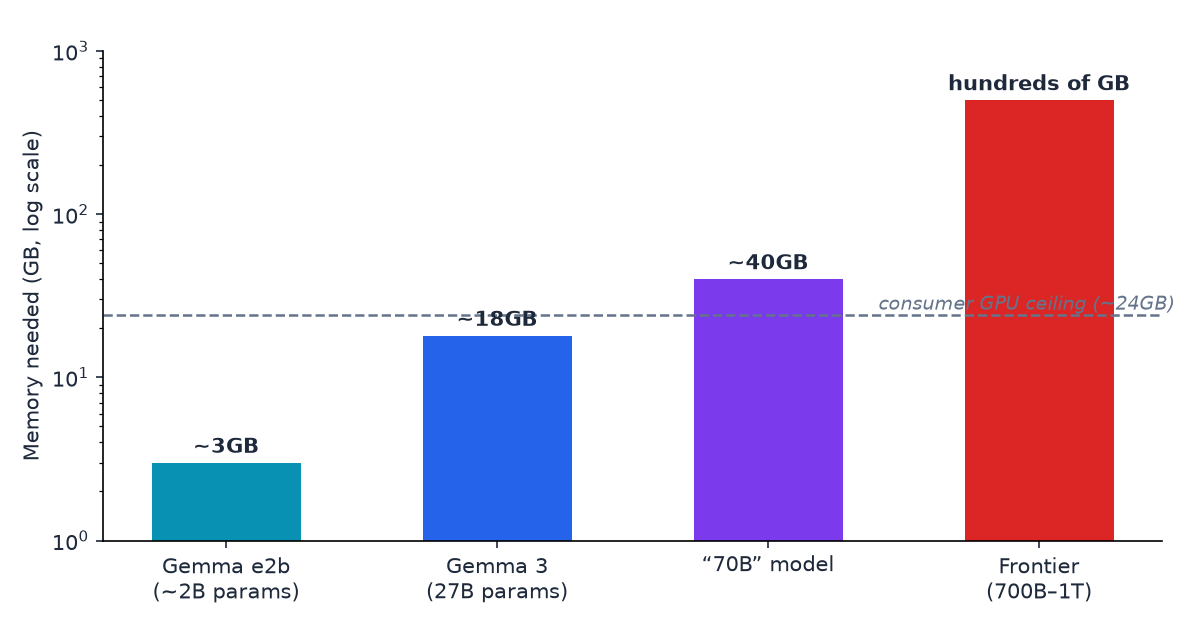
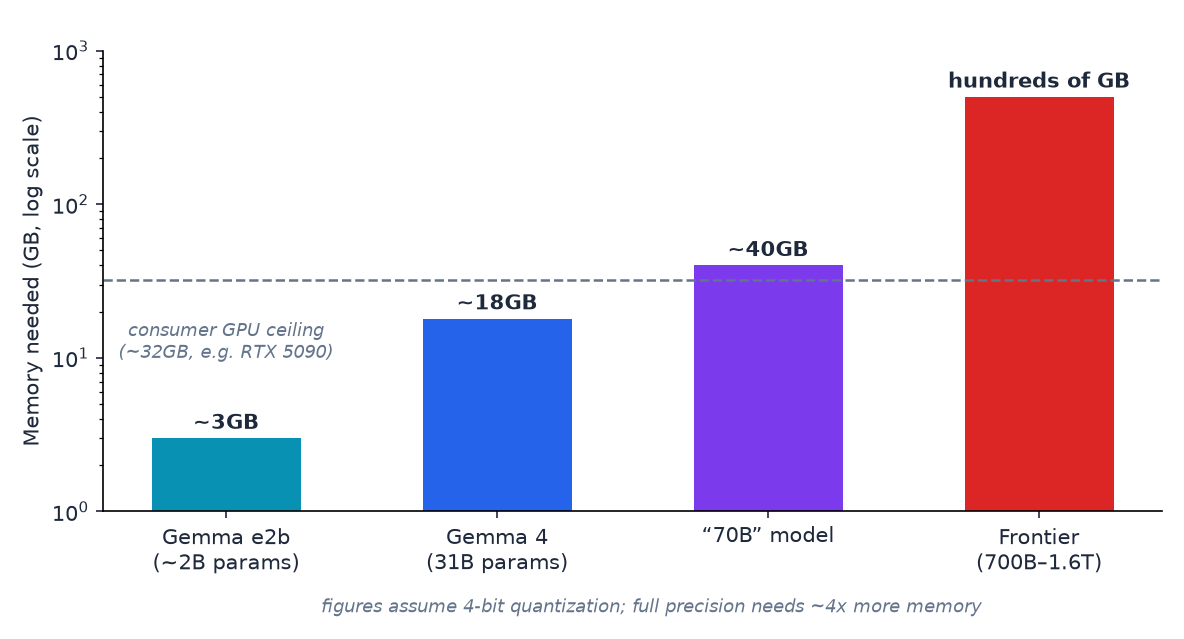
updates

Changed region(s): [[0.0, 0.0908, 0.9688, 0.9682], [0.0312, 0.0605, 0.0938, 0.1513]]

diff --git a/docs/slides/13-hardware-contrast.md b/docs/slides/13-hardware-contrast.md
@@ -1,9 +1,10 @@
 # Why Bigger Models Need Bigger Hardware
 
-![Placeholder: bar chart comparing memory needed — Gemma e2b (~3GB) vs Gemma 31B (~17-18GB) vs 70B model (~40GB) vs frontier 700B-1T model (hundreds of GB)](images/13-hardware-memory-chart.png)
+![Placeholder: bar chart comparing memory needed — Gemma e2b (~3GB) vs Gemma 4 31B (~17-18GB) vs 70B model (~40GB) vs frontier 700B-1.6T model (hundreds of GB)](images/13-hardware-memory-chart.png)
 
 - **Parameters** are roughly the number of knobs a model tuned during training.
-- Gemma e2b: ~3GB · Gemma 31B: ~17–18GB · 70B model: ~40GB · Largest 2026 open models (700B–1T): hundreds of GB across enterprise GPUs
+- Gemma e2b: ~3GB · Gemma 4 (31B): ~17–18GB · 70B model: ~40GB · Largest 2026 open models (700B–1.6T): hundreds of GB across enterprise GPUs
+- Figures assume 4-bit quantization; a full-precision 70B model would need closer to 140GB. Consumer GPU ceiling is now ~32GB (e.g. RTX 5090), up from the 24GB ceiling of the prior generation.
 - **The "aha":** frontier models aren't secret code — they're often just too large to fit on a personal computer, so companies run them in data centers.
 
 ---

diff --git a/README.md b/README.md
@@ -2,6 +2,8 @@
 
 A 30-minute talk for a general audience explaining AI, machine learning, and LLMs from the ground up — no technical background assumed. Ends with a live demo of running an open-source model locally.
 
+_Last updated: 2026-07-01_
+
 ## Contents
 
 - [`docs/lesson_outline.md`](docs/lesson_outline.md) — full speaker script with timing, talking points, an optional deep-dive analogy, a live-demo walkthrough, and an FAQ of key terms (neural network, vector, parameter, agent, and more).

diff --git a/docs/lesson_outline.md b/docs/lesson_outline.md
@@ -107,7 +107,7 @@ Keep this factual and even-handed — no endorsements, just an overview of categ
 **The contrast — why bigger models need bigger hardware:**
 - A model's "parameters" are roughly the number of knobs it learned to tune during training. More parameters generally means more capability, but also means the model takes up more memory.
 - Even staying within just the Gemma family, the difference is stark: the small edge model we just ran needs about 3GB of memory, while Google's own flagship Gemma model (31 billion parameters) needs around 17-18GB — and that's still Google intentionally keeping a version small enough for a high-end consumer GPU.
-- Go outside the Gemma family to the true frontier, and the numbers jump again: as a rough rule of thumb, a 70-billion-parameter model needs around 40GB of memory to run well — more than any consumer graphics card has on its own (high-end consumer GPUs typically top out around 24GB).
+- Go outside the Gemma family to the true frontier, and the numbers jump again: as a rough rule of thumb, a 70-billion-parameter model needs around 40GB of memory to run well (that figure assumes a compressed/"quantized" version — see the aside below; a full-precision 70B model would need closer to 140GB) — more than any consumer graphics card has on its own (high-end consumer GPUs typically top out around 32GB, e.g. the RTX 5090).
 - The very largest open models being released in 2026 — like Kimi K2.6 or DeepSeek's largest models — have around 700 billion to 1 trillion parameters. Running those requires hundreds of gigabytes of memory spread across multiple enterprise-grade GPUs, hardware that costs tens of thousands of dollars and lives in data centers, not living rooms.
 - **This is the "aha": it's not that ChatGPT, Claude, or Gemini's best models are secretly special code — often they're just too large to fit on a personal computer, so the company runs them in a data center and lets you access them over the internet instead.**
 